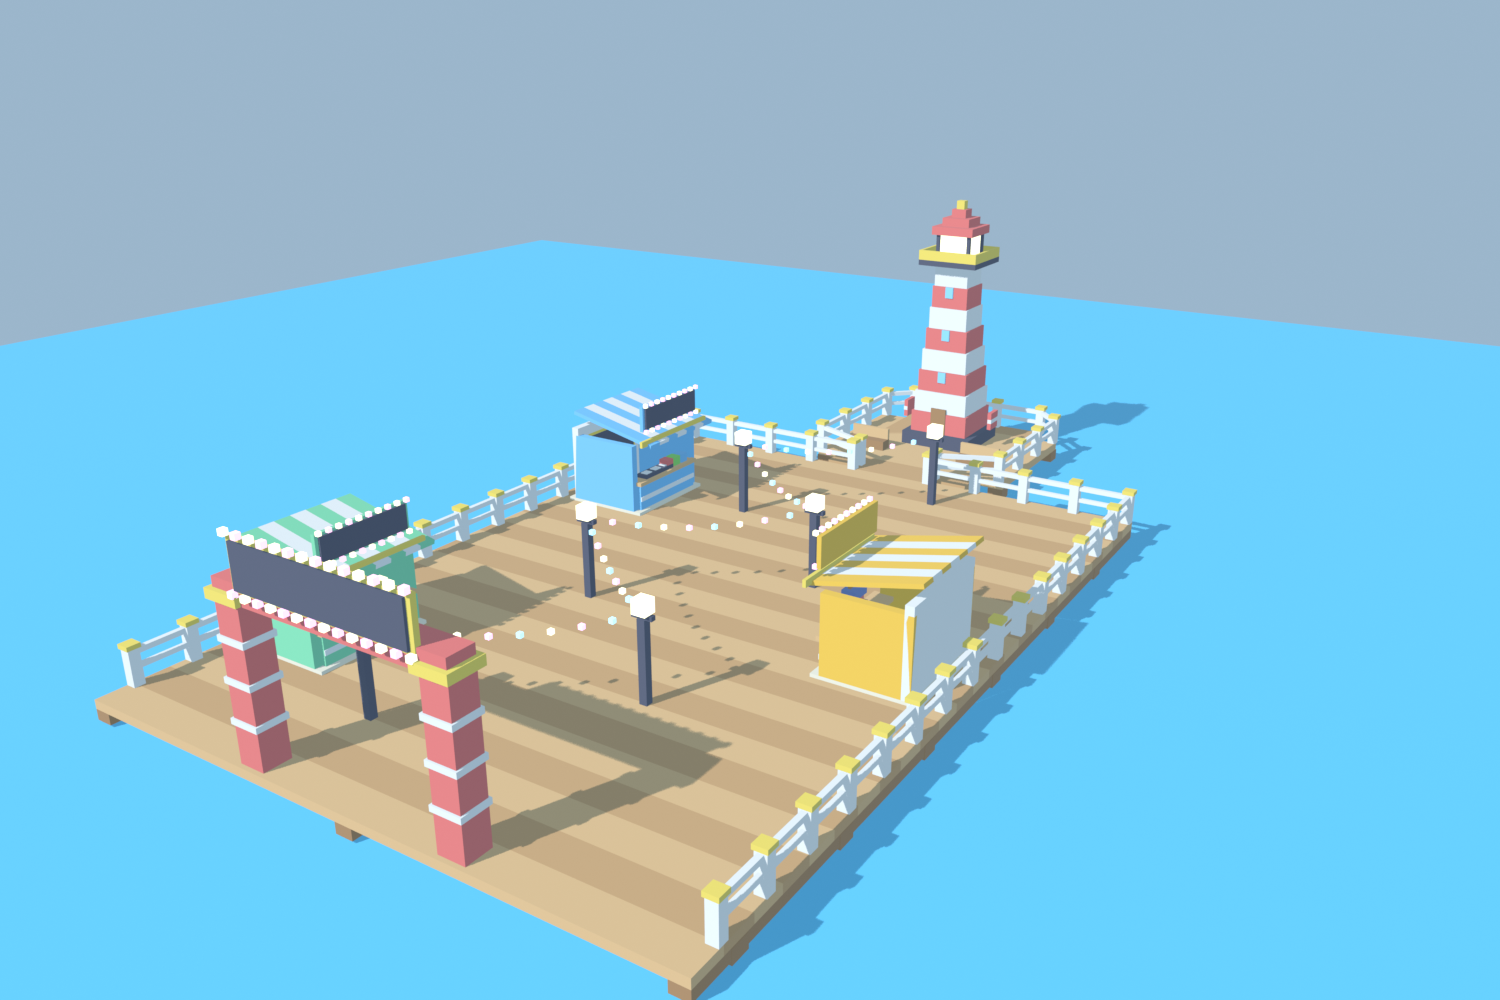
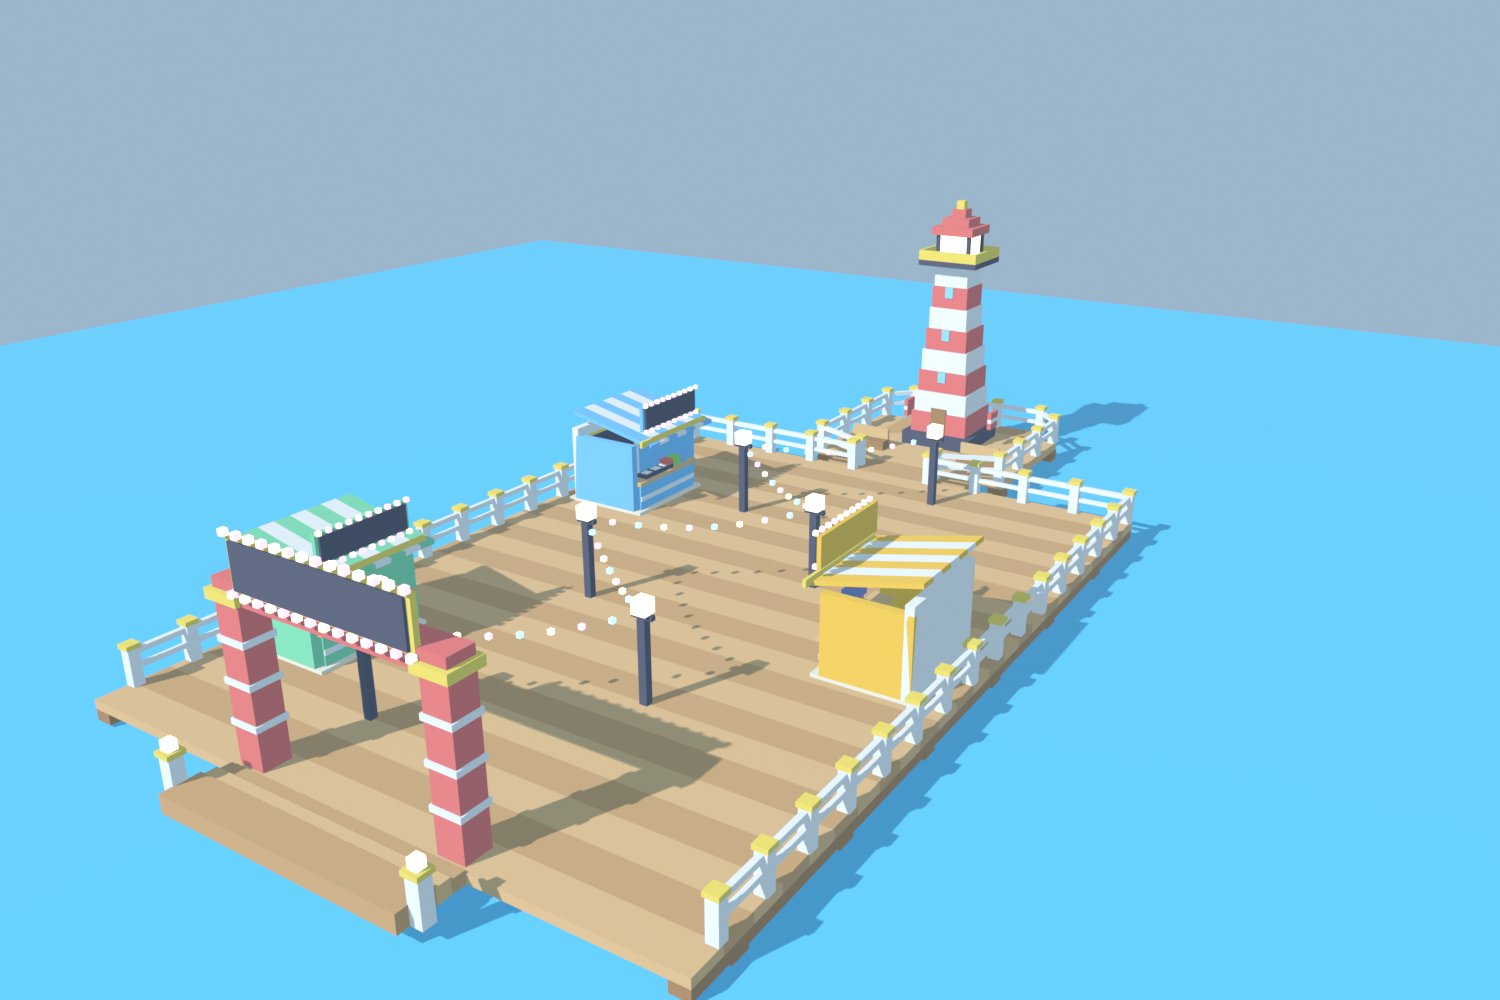
Pier connected to the hub: landing + steps from the Big Case terrace (arcade_pier.py), the hedge row opened (5 blocks archived to ServerStorage.ArchivedVisuals.CaseTerraceHedgeGap)

Changed region(s): [[0.092, 0.744, 0.3373, 0.961]]

diff --git a/tools/blender/arcade_pier.py b/tools/blender/arcade_pier.py
@@ -96,6 +96,17 @@ for yy in range(6, int(LEN), 16):  # posts down into the sea
     for x in (-W / 2 + 1, W / 2 - 1):
         box("Post", x, yy, DECK - 7, 2.2, 2.2, 6, PAL["woodD"])
 
+# ------------------------------------------------------------------ the landing from the Big Case terrace (2026-10-16: the
+# terrace's hedge row used to close the pier off): its rim tops out at +0.9, the deck at 0 - a wide plank landing and
+# two steps down, with a gold-capped post either side (the hedge has a 30-stud gap here, see the session log)
+box("Landing", 0, -5.0, DECK - 1, 28, 4, 1.9, PAL["woodM"])
+box("LandingStep", 0, -2.25, DECK - 1, 28, 1.5, 1.6, PAL["woodL"])
+box("LandingStep", 0, -0.75, DECK - 1, 28, 1.5, 1.3, PAL["woodM"])
+for side in (-1, 1):
+    box("LandingPost", side * 14.6, -5.0, DECK - 1, 1.4, 1.4, 4.4, PAL["white"])
+    box("LandingCap", side * 14.6, -5.0, DECK + 3.4, 1.8, 1.8, 0.5, PAL["gold"])
+    box("LandingLamp", side * 14.6, -5.0, DECK + 3.9, 1.0, 1.0, 1.0, PAL["bulb"], tag="neon")
+
 # ------------------------------------------------------------------ railings (sides + the far end), posts with gold caps
 def rail_run(x0, y0, x1, y1):
     L = math.hypot(x1 - x0, y1 - y0)
